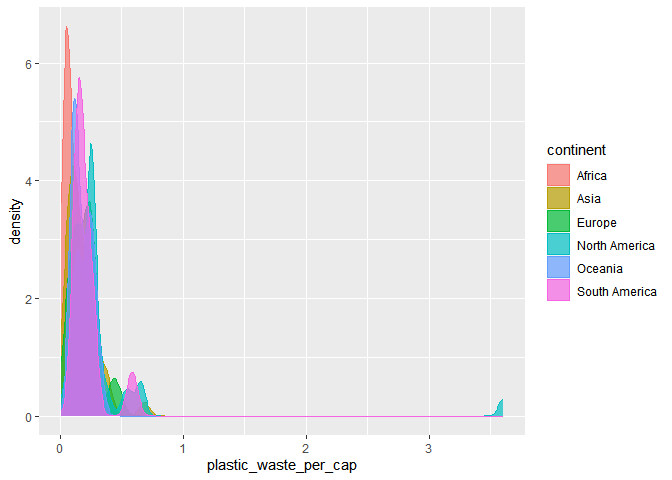
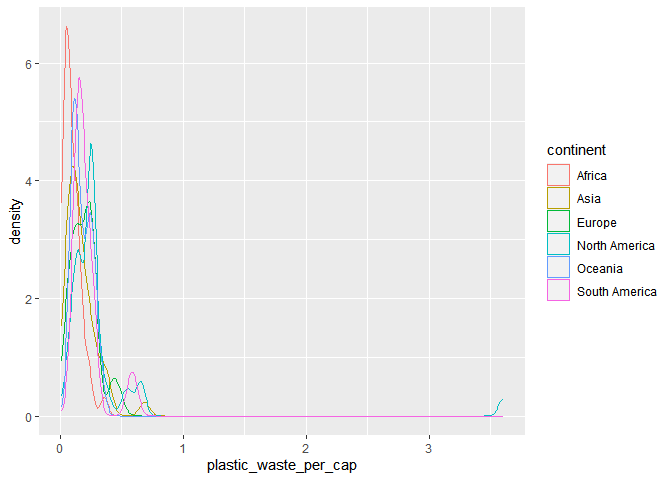
final

Changed region(s): [[0.0938, 0.0938, 0.2188, 0.875], [0.8125, 0.3438, 0.8438, 0.625], [0.7188, 0.8438, 0.75, 0.875]]

diff --git a/lab-02.md b/lab-02.md
@@ -26,13 +26,12 @@ View(plastic_waste)
 
 ### Exercise 1
 
-Remove this text, and add your answer for Exercise 1 here. Did you
-expect this result? You might consider doing some research on Trinidad
-and Tobago to see why plastic waste per capita is so high there, or
-whether this is a data error.
+\#Trinidad and Tobago import tons of plastic every year, so it makes
+sense and it’s not data error.
 
-What can you say about how the continents compare to each other in terms
-of their plastic waste per capita?
+\#It looks like many African countries have less plastic waste per
+capita, one or maybe a few North American countries have a lot plastic
+waste per capita
 
 ``` r
 ggplot(data = plastic_waste, aes(x = plastic_waste_per_cap)) +
@@ -58,6 +57,17 @@ plastic_waste %>%
 ``` r
 ggplot(data = plastic_waste, 
        mapping = aes(x = plastic_waste_per_cap, 
+                     color = continent)) +
+  geom_density()
+```
+
+    ## Warning: Removed 51 rows containing non-finite values (`stat_density()`).
+
+![](lab-02_files/figure-gfm/plastic-waste-continent-2.png)<!-- -->
+
+``` r
+ggplot(data = plastic_waste, 
+       mapping = aes(x = plastic_waste_per_cap, 
                      color = continent, 
                      fill = continent)) +
   geom_density(alpha = 0.7)
@@ -65,21 +75,19 @@ ggplot(data = plastic_waste,
 
     ## Warning: Removed 51 rows containing non-finite values (`stat_density()`).
 
-![](lab-02_files/figure-gfm/plastic-waste-continent-2.png)<!-- -->
+![](lab-02_files/figure-gfm/plastic-waste-continent-3.png)<!-- -->
 
 ### Exercise 2
 
-\#Describe why we defined the color and fill of the curves by mapping
-aesthetics of the plot but we defined the alpha level as a
-characteristic of the plotting geom. \###It looks like color and fill
-just automatically choose colors for different continents, and alpha
-controls the density of the graph
+\###It looks like color and fill just automatically choose colors for
+different continents. Color will color the dots/lines (if there are
+any). Fill just fills the colors in the graph. and alpha controls the
+density of the graph
 
 ``` r
 ggplot(data = plastic_waste, 
        mapping = aes(x = plastic_waste_per_cap, 
-                     color = continent, 
-                     fill = continent)) +
+                     color = continent, fill = continent)) +
   geom_density(alpha = 0.2)
 ```
 
@@ -100,63 +108,121 @@ ggplot(data = plastic_waste,
 
 ### Exercise 3
 
-Remove this text, and add your answer for Exercise 3 here.
+What do the violin plots reveal that box plots do not? \#Violin plots
+also show density and data distribution (e.g., normality)
+
+What features are apparent in the box plots but not in the violin plots?
+\#the medians.
+
+``` r
+ggplot(data = plastic_waste, 
+       mapping = aes(x = continent, 
+                     y = plastic_waste_per_cap)) +
+  geom_violin()
+```
+
+    ## Warning: Removed 51 rows containing non-finite values (`stat_ydensity()`).
+
+![](lab-02_files/figure-gfm/plastic-waste-violin-1.png)<!-- -->
 
 ### Exercise 4
 
-Remove this text, and add your answer for Exercise 4 here.
-
 ``` r
-# insert code here
+plastic_waste %>%
+  summarize(cor(plastic_waste_per_cap, total_pop))
 ```
+
+    ##   cor(plastic_waste_per_cap, total_pop)
+    ## 1                                    NA
 
 ### Exercise 5
 
-Remove this text, and add your answer for Exercise 5 here.
-
 ``` r
-# insert code here
+ggplot(data = plastic_waste, 
+       mapping = aes(x = plastic_waste_per_cap, 
+                     y = mismanaged_plastic_waste_per_cap)) +
+  geom_point()
 ```
+
+    ## Warning: Removed 51 rows containing missing values (`geom_point()`).
+
+![](lab-02_files/figure-gfm/plastic-waste-mismanaged-1.png)<!-- -->
 
 ### Exercise 6
 
-Remove this text, and add your answer for Exercise 6 here.
+\#it looks like a weak positive relationship and it looks like Oceania
+has less plastic waste per capita but they mismanage plastic waste more.
+Europe did the best in terms of mismanage plastic waste.
 
 ``` r
-# insert code here
+ggplot(data = plastic_waste, 
+       mapping = aes(x = plastic_waste_per_cap, 
+                     y = mismanaged_plastic_waste_per_cap,
+                     color = continent)) +
+  geom_point()
 ```
+
+    ## Warning: Removed 51 rows containing missing values (`geom_point()`).
+
+![](lab-02_files/figure-gfm/plastic-waste-mismanaged-continent-1.png)<!-- -->
 
 ### Exercise 7
 
-Remove this text, and add your answer for Exercise 7 here.
+\#They don’t seem to be more strongly linearly associated compare to the
+previous graph
 
 ``` r
-# insert code here
+ggplot(data = plastic_waste, 
+       mapping = aes(x = plastic_waste_per_cap, 
+                     y = total_pop,
+                     color = continent)) +
+  geom_point()
 ```
 
+    ## Warning: Removed 61 rows containing missing values (`geom_point()`).
+
+![](lab-02_files/figure-gfm/plastic-waste-population-total-1.png)<!-- -->
+
 ``` r
-# insert code here
+ggplot(data = plastic_waste, 
+       mapping = aes(x = plastic_waste_per_cap, 
+                     y = coastal_pop,
+                     color = continent)) +
+  geom_point()
 ```
+
+    ## Warning: Removed 51 rows containing missing values (`geom_point()`).
+
+![](lab-02_files/figure-gfm/plastic-waste-population-coastal-1.png)<!-- -->
 
 ### Exercise 8
 
-Remove this text, and add your answer for Exercise 8 here.
+\#I think it’s identical except for the color
 
 ``` r
-# insert code here
+library(ggsci)
+plastic_waste_f <- plastic_waste %>% 
+  filter(plastic_waste_per_cap < 3)
+
+plastic_waste_f$Coastal_pop_pro <- plastic_waste_f$coastal_pop/plastic_waste_f$total_pop
+
+ggplot(data = plastic_waste_f, 
+       mapping = aes(x = Coastal_pop_pro, 
+                     y = plastic_waste_per_cap)) +
+  ggtitle("Plastic waste vs. coastal population proportion", "by continent") + 
+  xlab("Coastal population proportion (Coastal / total population)") + 
+  ylab("Plastic waste per capita") + 
+  geom_point(data = plastic_waste_f, aes(color=continent)) +
+  geom_smooth(data = plastic_waste_f, color="black")+ theme(
+  panel.background = element_rect(fill = NA),
+  panel.grid.major = element_line(colour = "grey"),
+) + scale_color_aaas()
 ```
 
-## Pro-Tips
+    ## `geom_smooth()` using method = 'loess' and formula = 'y ~ x'
 
-### Excercise 3
+    ## Warning: Removed 10 rows containing non-finite values (`stat_smooth()`).
 
-Try this :D
+    ## Warning: Removed 10 rows containing missing values (`geom_point()`).
 
-ggplot(data = plastic_waste, mapping = aes(x = continent, y =
-plastic_waste_per_cap)) + geom_violin()+ geom_boxplot(width=.3,
-fill=“green”) + stat_summary(fun.y=median, geom=“point”)
-
-### Exercise 5
-
-Helpful
-reference:<http://www.sthda.com/english/wiki/ggplot2-themes-and-background-colors-the-3-elements>
+![](lab-02_files/figure-gfm/recreate-viz-1.png)<!-- -->
